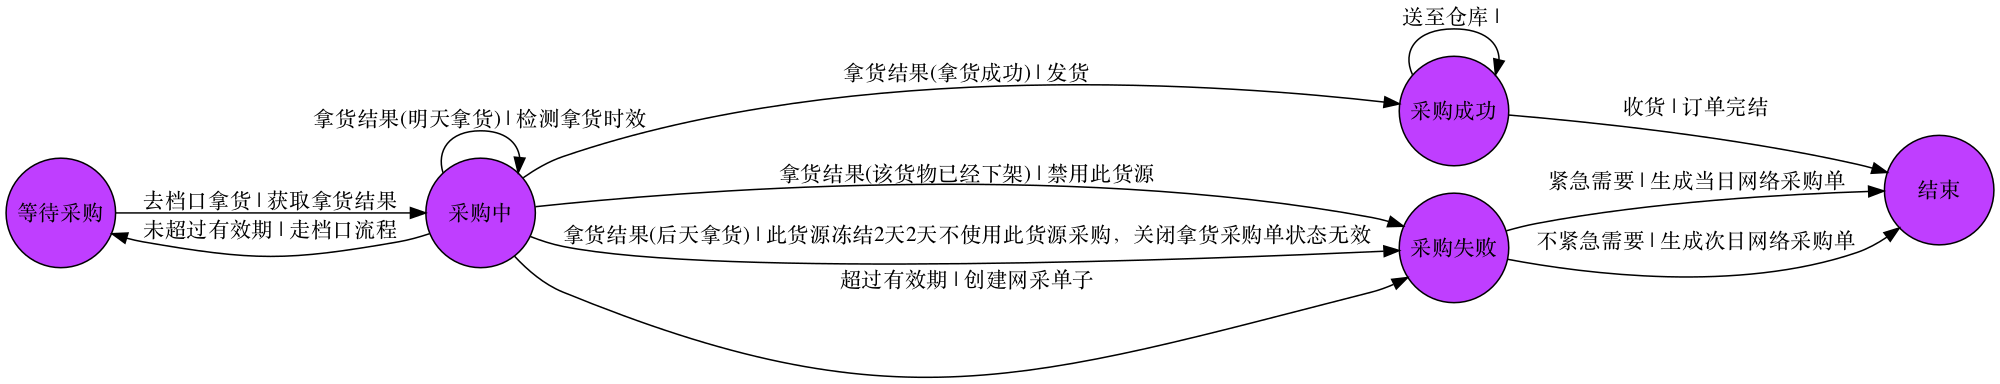
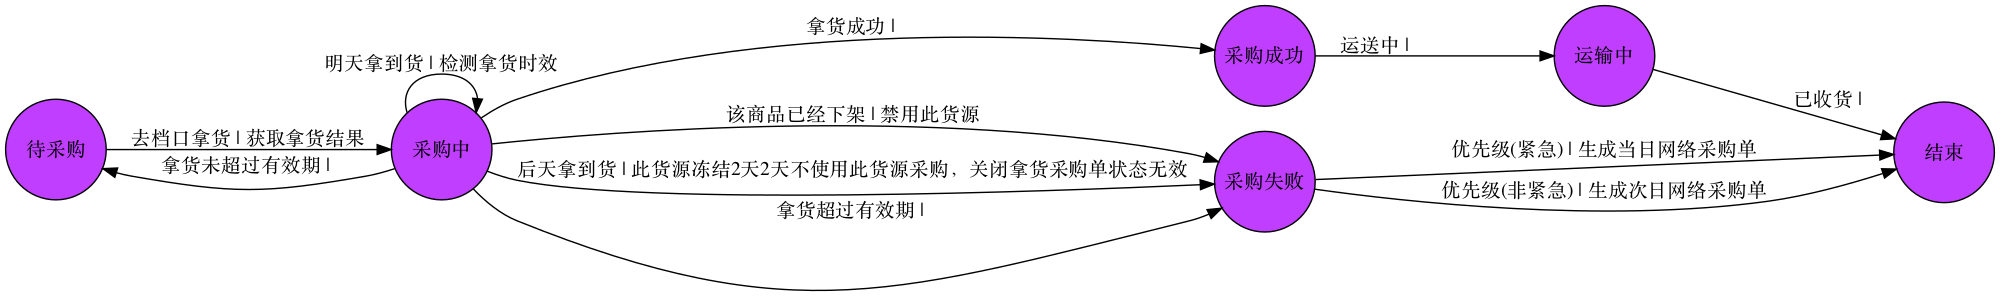
状态表优化

diff --git a/purchase_at_the_stall_test.go b/purchase_at_the_stall_test.go
@@ -123,9 +123,13 @@ var PurchaseSuccessful = State{
 	"采购成功",
 	"",
 }
-
-var PurchaseEnd = State{
+var BeingTransported = State{
 	4,
+	"运输中",
+	"",
+}
+var PurchaseEnd = State{
+	5,
 	"结束",
 	"",
 }
@@ -264,7 +268,7 @@ func TestStallOrder(t *testing.T) {
 
 	}
 
-	//fsm.Export("state.png")
+	fsm.Export("state.png")
 
 }
 
@@ -283,8 +287,8 @@ func initStallOrderFSM() *StateMachine {
 	transitions := []Transition{
 		{From: PendingPuchase, Event: Go2Stall, To: Purchasing, Action: "获取拿货结果"},
 		{From: Purchasing, Event: GotTheGoods, To: PurchaseSuccessful, Action: ""},
-		{From: PurchaseSuccessful, Event: SendToWarehouse, To: PurchaseSuccessful, Action: ""},
-		{From: PurchaseSuccessful, Event: Received, To: PurchaseEnd, Action: ""},
+		{From: PurchaseSuccessful, Event: SendToWarehouse, To: BeingTransported, Action: ""},
+		{From: BeingTransported, Event: Received, To: PurchaseEnd, Action: ""},
 		{From: Purchasing, Event: HasBeenRemoved, To: Purchasefailed, Action: "禁用此货源"},
 		{From: Purchasefailed, Event: Urgent, To: PurchaseEnd, Action: "生成当日网络采购单"},
 		{From: Purchasefailed, Event: NotUrgent, To: PurchaseEnd, Action: "生成次日网络采购单"},
